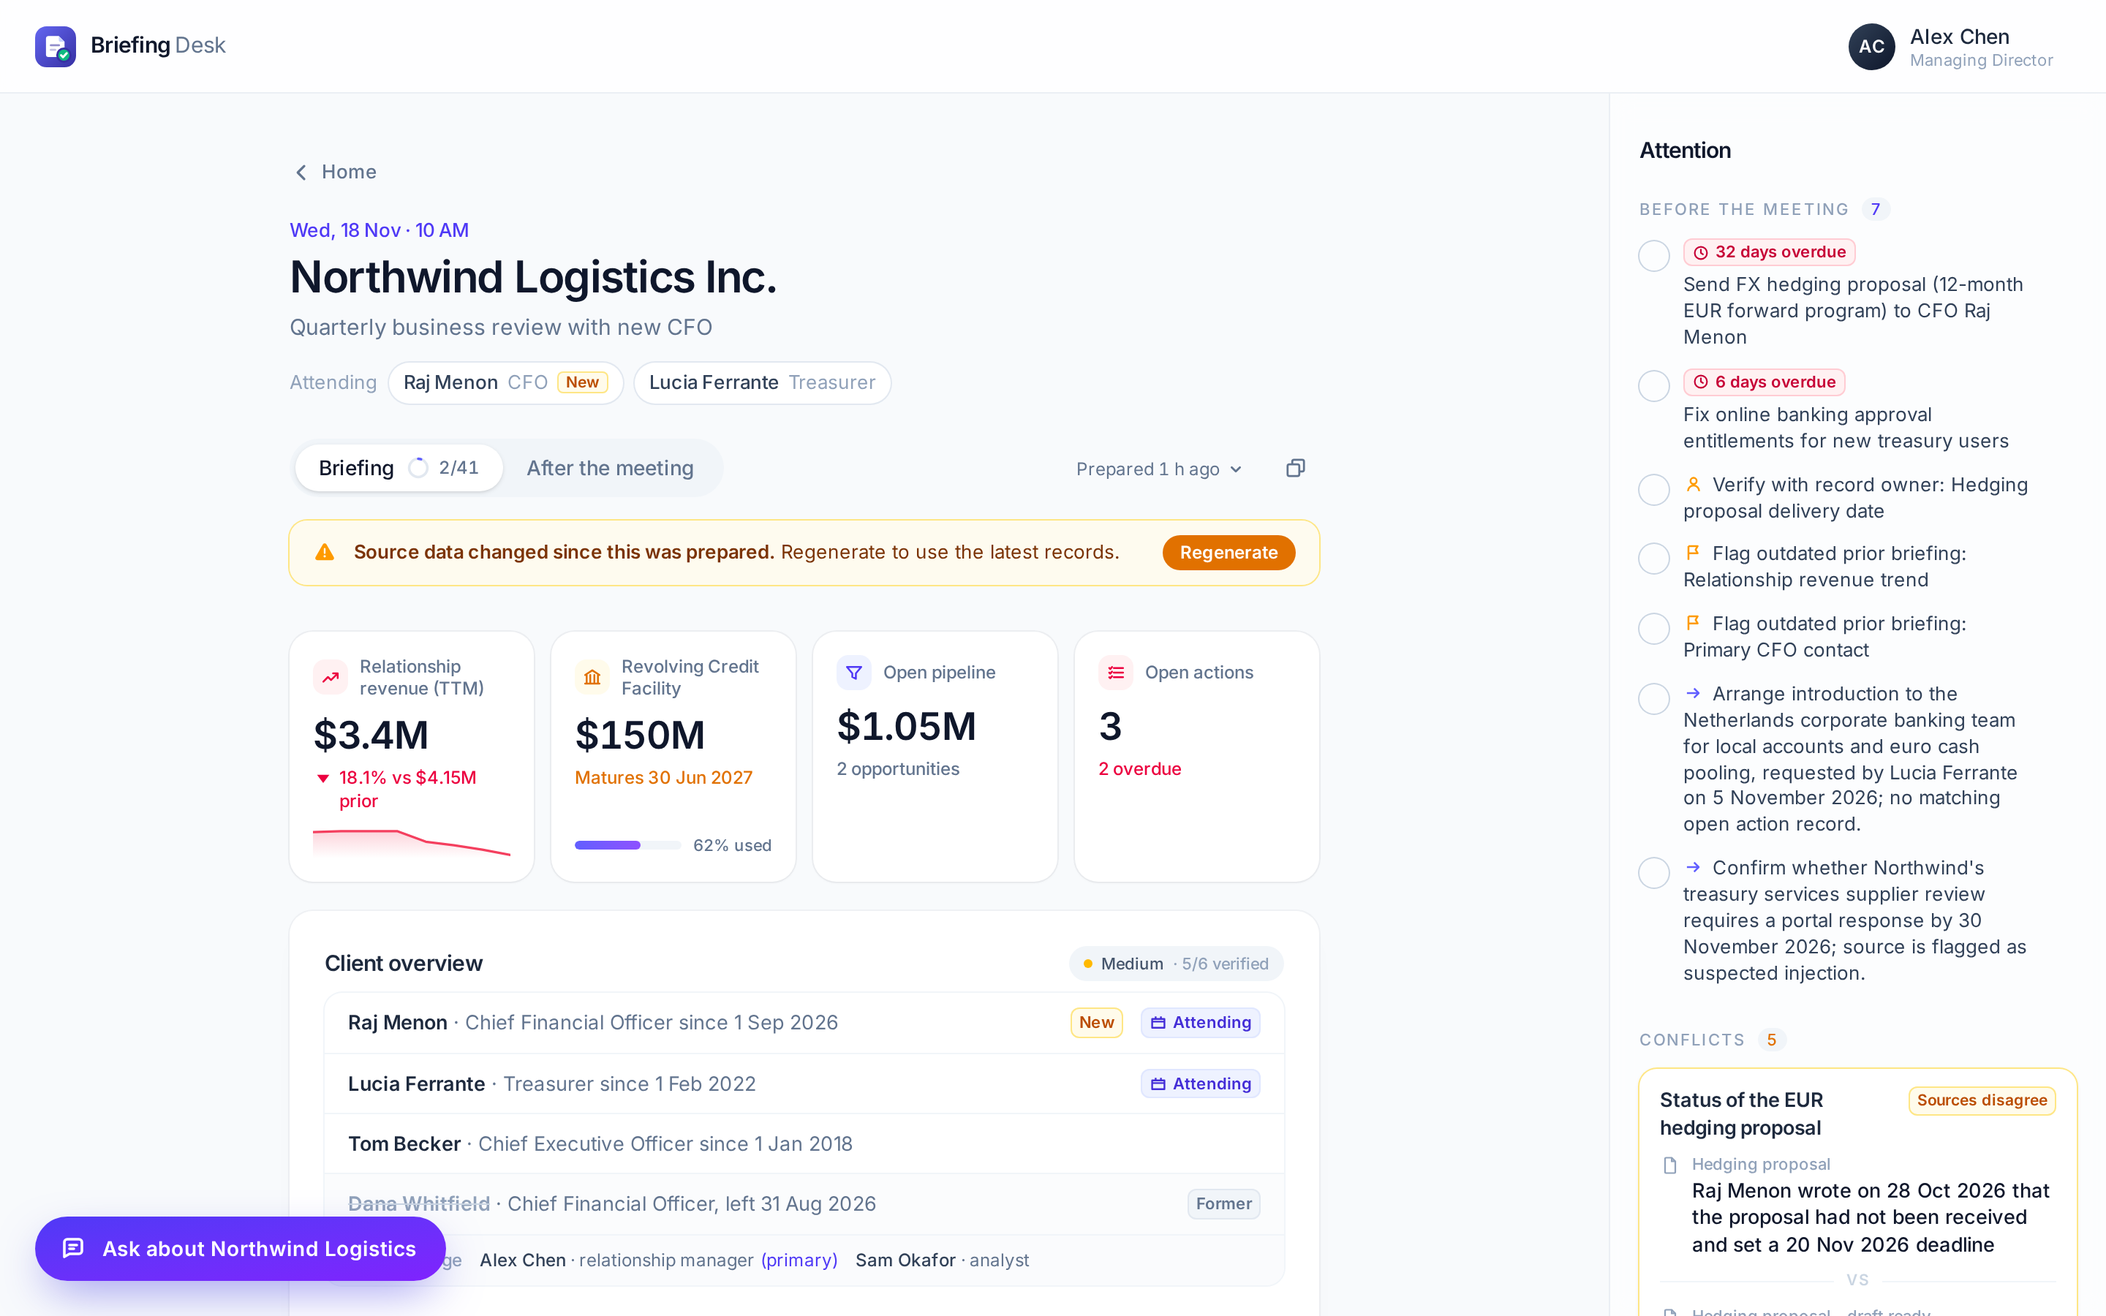
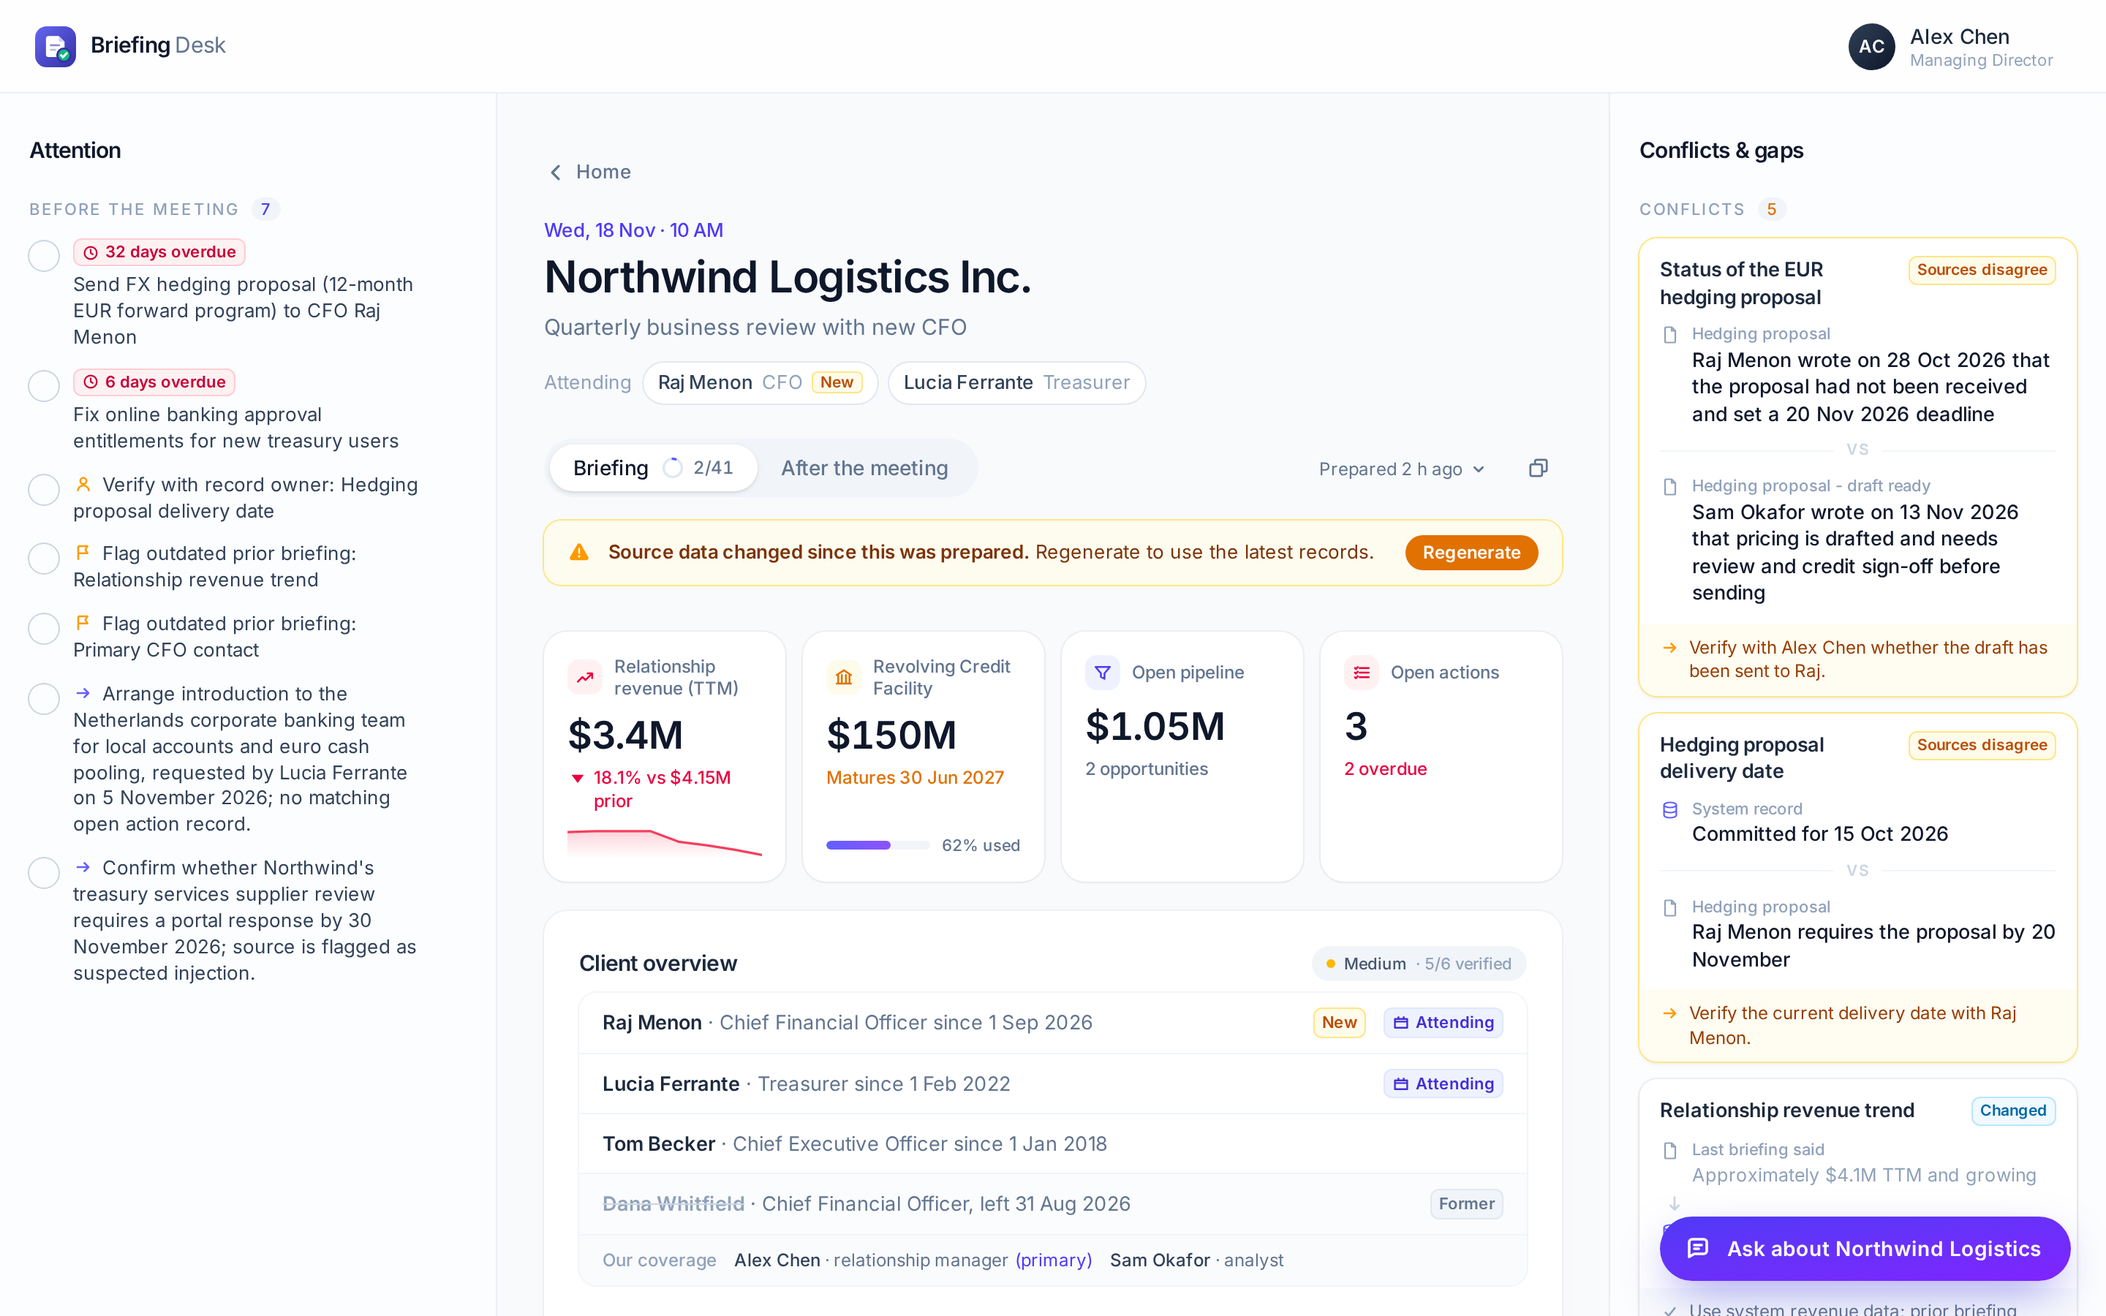
Split attention into side columns
Actions (what to do before the meeting) on the left, conflicts and gaps on the
right, the briefing in the middle. The chat button moves back to the bottom
right; the right column leaves room to scroll its last card above it.

diff --git a/frontend/src/components/AttentionPanel.tsx b/frontend/src/components/AttentionPanel.tsx
@@ -1,4 +1,5 @@
-// UI-5: what the banker must not miss. Kept short: conflicts, gaps, actions.
+// UI-5: what the banker must not miss, on both sides of the briefing: actions on the left (what to
+// do before the meeting), conflicts and gaps on the right (what not to rely on).
 import { useState, type ReactNode } from 'react'
 import type { Briefing, Citation, Conflict, ConflictValue, SuggestedAction } from '../types'
 import { SourceKindIcon } from './SectionCard'
@@ -12,9 +13,10 @@ interface Props {
   actionStates: Record<string, ActionState>
   onAction: (action: SuggestedAction, state: ActionState) => void
   onCite: (citation: Citation) => void
+  side: 'left' | 'right'
 }
 
-export function AttentionPanel({ briefing, running, actionStates, onAction, onCite }: Props) {
+export function AttentionPanel({ briefing, running, actionStates, onAction, onCite, side }: Props) {
   const [allUnknowns, setAllUnknowns] = useState(false)
   const actions = (briefing?.suggested_actions.filter((a) => actionStates[a.id] !== 'dismissed') ?? []).sort(
     (a, b) => urgency(a) - urgency(b),
@@ -22,8 +24,15 @@ export function AttentionPanel({ briefing, running, actionStates, onAction, onCi
   const unknowns = briefing ? (allUnknowns ? briefing.unknowns : briefing.unknowns.slice(0, 3)) : []
 
   return (
-    <aside className="w-[340px] shrink-0 overflow-y-auto border-l border-slate-200/70 bg-white/60 px-5 py-7 backdrop-blur">
-      <h2 className="text-[15px] font-semibold tracking-tight text-slate-900">Attention</h2>
+    <aside
+      className={cn(
+        'w-[340px] shrink-0 overflow-y-auto border-slate-200/70 bg-white/60 px-5 py-7 backdrop-blur',
+        side === 'left' ? 'border-r' : 'border-l pb-28', // room to scroll the last card above the chat button
+      )}
+    >
+      <h2 className="text-[15px] font-semibold tracking-tight text-slate-900">
+        {side === 'left' ? 'Attention' : 'Conflicts & gaps'}
+      </h2>
 
       {!briefing && running && (
         <div className="mt-4 flex items-center gap-2 text-sm text-slate-400">
@@ -33,7 +42,7 @@ export function AttentionPanel({ briefing, running, actionStates, onAction, onCi
 
       {briefing && (
         <div className="mt-5 space-y-7">
-          {briefing.access_limited && (
+          {side === 'left' && briefing.access_limited && (
             <p className="flex items-center gap-2 text-xs text-slate-500">
               <svg viewBox="0 0 20 20" className="h-3.5 w-3.5" fill="currentColor" aria-hidden="true">
                 <path
@@ -46,89 +55,95 @@ export function AttentionPanel({ briefing, running, actionStates, onAction, onCi
           )}
 
           {/* What to do before the meeting comes first: overdue commitments, then checks, then follow-ups */}
-          <Group title="Before the meeting" count={actions.length} tone="text-indigo-600">
-            {actions.map((a) => {
-              const created = actionStates[a.id] === 'created'
-              const overdue = /^Overdue by (\d+) days?: (.*)$/s.exec(a.description)
-              const text = overdue ? overdue[2] : a.description
-              return (
-                <div key={a.id} className="group flex items-start gap-2.5">
-                  <button
-                    onClick={() => !created && onAction(a, 'created')}
-                    title={created ? 'Created' : 'Create follow-up'}
-                    className={cn(
-                      'mt-0.5 grid h-5 w-5 shrink-0 place-items-center rounded-full ring-1 transition',
-                      created
-                        ? 'bg-emerald-500 text-white ring-emerald-500'
-                        : 'text-transparent ring-slate-300 hover:text-indigo-500 hover:ring-indigo-400',
-                    )}
-                  >
-                    <svg viewBox="0 0 20 20" className="h-3 w-3" fill="none" stroke="currentColor" strokeWidth="2.5">
-                      <path d="M5 10.5 8.5 14 15 6" />
-                    </svg>
-                  </button>
-                  <div className={cn('flex-1 text-[13px] leading-snug', created ? 'text-slate-400 line-through' : 'text-slate-700')}>
-                    {overdue && !created && (
-                      <span className="mb-1 inline-flex items-center gap-1 rounded-md bg-rose-50 px-1.5 py-0.5 text-[11px] font-semibold text-rose-700 ring-1 ring-inset ring-rose-200">
-                        <Icon className="h-3 w-3">
-                          <path d="M10 5.5V10l3 2M17 10a7 7 0 1 1-14 0 7 7 0 0 1 14 0Z" />
-                        </Icon>
-                        {overdue[1]} days overdue
-                      </span>
-                    )}
-                    <p>
-                      {!overdue && (
-                        <span className={cn('mr-1.5 inline-flex align-[-2px]', created ? 'text-slate-300' : ACTION_KINDS[a.kind]?.tone)}>
-                          <Icon className="h-3.5 w-3.5">{ACTION_KINDS[a.kind]?.icon ?? ACTION_KINDS.follow_up.icon}</Icon>
-                        </span>
-                      )}
-                      {readable(text)}
-                    </p>
-                  </div>
-                  {!created && (
+          {side === 'left' && (
+            <Group title="Before the meeting" count={actions.length} tone="text-indigo-600">
+              {actions.map((a) => {
+                const created = actionStates[a.id] === 'created'
+                const overdue = /^Overdue by (\d+) days?: (.*)$/s.exec(a.description)
+                const text = overdue ? overdue[2] : a.description
+                return (
+                  <div key={a.id} className="group flex items-start gap-2.5">
                     <button
-                      onClick={() => onAction(a, 'dismissed')}
-                      title="Dismiss"
-                      className="text-slate-300 opacity-0 transition hover:text-slate-500 group-hover:opacity-100"
+                      onClick={() => !created && onAction(a, 'created')}
+                      title={created ? 'Created' : 'Create follow-up'}
+                      className={cn(
+                        'mt-0.5 grid h-5 w-5 shrink-0 place-items-center rounded-full ring-1 transition',
+                        created
+                          ? 'bg-emerald-500 text-white ring-emerald-500'
+                          : 'text-transparent ring-slate-300 hover:text-indigo-500 hover:ring-indigo-400',
+                      )}
                     >
-                      <svg viewBox="0 0 20 20" className="h-4 w-4" fill="none" stroke="currentColor" strokeWidth="2">
-                        <path d="M6 6l8 8M14 6l-8 8" />
+                      <svg viewBox="0 0 20 20" className="h-3 w-3" fill="none" stroke="currentColor" strokeWidth="2.5">
+                        <path d="M5 10.5 8.5 14 15 6" />
                       </svg>
                     </button>
-                  )}
-                </div>
-              )
-            })}
-          </Group>
+                    <div className={cn('flex-1 text-[13px] leading-snug', created ? 'text-slate-400 line-through' : 'text-slate-700')}>
+                      {overdue && !created && (
+                        <span className="mb-1 inline-flex items-center gap-1 rounded-md bg-rose-50 px-1.5 py-0.5 text-[11px] font-semibold text-rose-700 ring-1 ring-inset ring-rose-200">
+                          <Icon className="h-3 w-3">
+                            <path d="M10 5.5V10l3 2M17 10a7 7 0 1 1-14 0 7 7 0 0 1 14 0Z" />
+                          </Icon>
+                          {overdue[1]} days overdue
+                        </span>
+                      )}
+                      <p>
+                        {!overdue && (
+                          <span className={cn('mr-1.5 inline-flex align-[-2px]', created ? 'text-slate-300' : ACTION_KINDS[a.kind]?.tone)}>
+                            <Icon className="h-3.5 w-3.5">{ACTION_KINDS[a.kind]?.icon ?? ACTION_KINDS.follow_up.icon}</Icon>
+                          </span>
+                        )}
+                        {readable(text)}
+                      </p>
+                    </div>
+                    {!created && (
+                      <button
+                        onClick={() => onAction(a, 'dismissed')}
+                        title="Dismiss"
+                        className="text-slate-300 opacity-0 transition hover:text-slate-500 group-hover:opacity-100"
+                      >
+                        <svg viewBox="0 0 20 20" className="h-4 w-4" fill="none" stroke="currentColor" strokeWidth="2">
+                          <path d="M6 6l8 8M14 6l-8 8" />
+                        </svg>
+                      </button>
+                    )}
+                  </div>
+                )
+              })}
+            </Group>
+          )}
 
-          <Group title="Conflicts" count={briefing.conflicts.length} tone="text-amber-600">
-            {/* sources that disagree need action, so they come before plain updates */}
-            {[...briefing.conflicts]
-              .sort((a, b) => Number(isUpdate(a)) - Number(isUpdate(b)))
-              .map((c) => (
-                <ConflictCard key={c.topic} conflict={c} onCite={onCite} />
-              ))}
-          </Group>
+          {side === 'right' && (
+            <>
+              <Group title="Conflicts" count={briefing.conflicts.length} tone="text-amber-600">
+                {/* sources that disagree need action, so they come before plain updates */}
+                {[...briefing.conflicts]
+                  .sort((a, b) => Number(isUpdate(a)) - Number(isUpdate(b)))
+                  .map((c) => (
+                    <ConflictCard key={c.topic} conflict={c} onCite={onCite} />
+                  ))}
+              </Group>
 
-          <Group title="Gaps" count={briefing.unknowns.length} tone="text-slate-500">
-            {unknowns.map((u) => (
-              <p key={u.question} className="flex gap-2 text-[13px] leading-snug text-slate-600" title={u.reason}>
-                <Icon className="mt-[1px] h-4 w-4 shrink-0 text-slate-400">
-                  <path d="M17 10a7 7 0 1 1-14 0 7 7 0 0 1 14 0Z" />
-                  <path d="M8 8a2 2 0 1 1 2.8 1.8c-.5.2-.8.7-.8 1.2v.5M10 14h.01" strokeLinecap="round" />
-                </Icon>
-                {readable(u.question)}
-              </p>
-            ))}
-            {briefing.unknowns.length > 3 && (
-              <button
-                onClick={() => setAllUnknowns((v) => !v)}
-                className="text-xs font-medium text-indigo-600 hover:text-indigo-700"
-              >
-                {allUnknowns ? 'Show less' : `Show ${briefing.unknowns.length - 3} more`}
-              </button>
-            )}
-          </Group>
+              <Group title="Gaps" count={briefing.unknowns.length} tone="text-slate-500">
+                {unknowns.map((u) => (
+                  <p key={u.question} className="flex gap-2 text-[13px] leading-snug text-slate-600" title={u.reason}>
+                    <Icon className="mt-[1px] h-4 w-4 shrink-0 text-slate-400">
+                      <path d="M17 10a7 7 0 1 1-14 0 7 7 0 0 1 14 0Z" />
+                      <path d="M8 8a2 2 0 1 1 2.8 1.8c-.5.2-.8.7-.8 1.2v.5M10 14h.01" strokeLinecap="round" />
+                    </Icon>
+                    {readable(u.question)}
+                  </p>
+                ))}
+                {briefing.unknowns.length > 3 && (
+                  <button
+                    onClick={() => setAllUnknowns((v) => !v)}
+                    className="text-xs font-medium text-indigo-600 hover:text-indigo-700"
+                  >
+                    {allUnknowns ? 'Show less' : `Show ${briefing.unknowns.length - 3} more`}
+                  </button>
+                )}
+              </Group>
+            </>
+          )}
         </div>
       )}
     </aside>

diff --git a/frontend/src/components/ChatWidget.tsx b/frontend/src/components/ChatWidget.tsx
@@ -109,7 +109,7 @@ export function ChatWidget({ userId, clients, currentClientId, onCite }: Props) 
     return (
       <button
         onClick={() => setOpen(true)}
-        className="fixed bottom-6 left-6 z-30 inline-flex items-center gap-2.5 rounded-full bg-gradient-to-br from-indigo-600 to-violet-600 py-3 pl-4 pr-5 text-sm font-semibold text-white shadow-[0_12px_32px_-8px_rgba(79,70,229,0.6)] transition hover:-translate-y-0.5 hover:shadow-[0_16px_40px_-8px_rgba(79,70,229,0.7)]"
+        className="fixed bottom-6 right-6 z-30 inline-flex items-center gap-2.5 rounded-full bg-gradient-to-br from-indigo-600 to-violet-600 py-3 pl-4 pr-5 text-sm font-semibold text-white shadow-[0_12px_32px_-8px_rgba(79,70,229,0.6)] transition hover:-translate-y-0.5 hover:shadow-[0_16px_40px_-8px_rgba(79,70,229,0.7)]"
       >
         <ChatIcon className="h-5 w-5" />
         {client ? `Ask about ${shortName(client.name)}` : 'Ask'}
@@ -121,7 +121,7 @@ export function ChatWidget({ userId, clients, currentClientId, onCite }: Props) 
     <section
       role="dialog"
       aria-label="Ask about a client"
-      className="rise fixed bottom-6 left-6 z-30 flex h-[620px] max-h-[calc(100vh-7rem)] w-[420px] flex-col overflow-hidden rounded-2xl bg-white shadow-[0_24px_64px_-12px_rgba(15,23,42,0.35)] ring-1 ring-slate-900/10"
+      className="rise fixed bottom-6 right-6 z-30 flex h-[620px] max-h-[calc(100vh-7rem)] w-[420px] flex-col overflow-hidden rounded-2xl bg-white shadow-[0_24px_64px_-12px_rgba(15,23,42,0.35)] ring-1 ring-slate-900/10"
     >
       <header className="flex items-center gap-3 bg-gradient-to-br from-indigo-600 to-violet-600 px-4 py-3.5 text-white">
         <span className="grid h-10 w-10 shrink-0 place-items-center rounded-xl bg-white/15 text-[13px] font-semibold ring-1 ring-white/20">

diff --git a/frontend/src/App.tsx b/frontend/src/App.tsx
@@ -265,6 +265,17 @@ export default function App() {
         onSignOut={() => setUserId(null)}
       />
       <div className="flex min-h-0 flex-1">
+        {/* Actions on the left, read first; conflicts and gaps on the right */}
+        {meeting && view === 'briefing' && run.status !== 'idle' && (
+          <AttentionPanel
+            briefing={run.briefing}
+            running={run.status === 'running'}
+            actionStates={actionStates}
+            onAction={act}
+            onCite={setDrawer}
+            side="left"
+          />
+        )}
         <main className="min-w-0 flex-1 overflow-y-auto">
           {!meeting && (
             <HomeDashboard
@@ -340,8 +351,10 @@ export default function App() {
             actionStates={actionStates}
             onAction={act}
             onCite={setDrawer}
+            side="right"
           />
         )}
+
 
       </div>
 

diff --git a/specs/05-api-ui.md b/specs/05-api-ui.md
@@ -58,7 +58,8 @@ cited sentence highlighted, source type, date and authority flags (derived, stal
 suspected injection). Structured sources show the database row itself (`Citation.record`) as a
 field table, named by table and record ID, with the sentence the model was given beneath it.
 
-**UI-5 Right rail – "Needs attention":** conflicts (both values side by side + resolution),
+**UI-5 Side rails – "Needs attention":** left: what to do before the meeting (actions by urgency,
+access notice); right: conflicts and gaps. Originally one right rail: conflicts (both values side by side + resolution),
 unknowns, `access_limited` notice ("Some sources are not available at your access level"),
 suggested actions with Create / Dismiss.
 
@@ -84,7 +85,7 @@ company search box was tried and removed: the home cards list every covered clie
 picks its client. API-13 remains available. Browser Back / Forward and reload follow the open
 meeting (`#/meeting/<id>`); the briefing page has a Home link.
 
-**UI-13 Ask chat:** a floating chat on every page (bottom left, clear of the attention panel). Typing is never blocked. While
+**UI-13 Ask chat:** a floating chat on every page (bottom right, clear of the attention panel on the left). Typing is never blocked. While
 the user types, the client named in the question is detected (API-13, aliases included) and shown
 ("About Northwind Logistics, from NWL"); otherwise the client on screen is used; with neither, the
 chat keeps the question and asks which client it is about. Suggested questions; each answer shows

diff --git a/README.md b/README.md
@@ -50,9 +50,9 @@ A five-minute tour:
    no model involved). Click **Prepare briefing**: seven sections stream in about 8 seconds.
 2. **Click a small number like ¹** inside a sentence. The source opens with the exact sentence
    highlighted, or the database row itself.
-3. **Look at the right panel.** The overdue proposal is on top. The "Changed" cards show what the
+3. **Look at the side columns.** On the left, the overdue proposal is on top. On the right, "Changed" cards show what the
    last briefing said ($4.1M and growing, Dana Whitfield as CFO) next to what is true now.
-4. **Click "Ask about Northwind"** (bottom left, on every page) and ask anything. Answers are
+4. **Click "Ask about Northwind"** (bottom right, on every page) and ask anything. Answers are
    cited and verified like the briefing.
 5. **Switch to Sam, then to Kim, and open Helios.** Kim sees the Aurora mandate. Sam does not, and
    nothing on Sam's page names it (only a general "some sources are restricted" notice).
